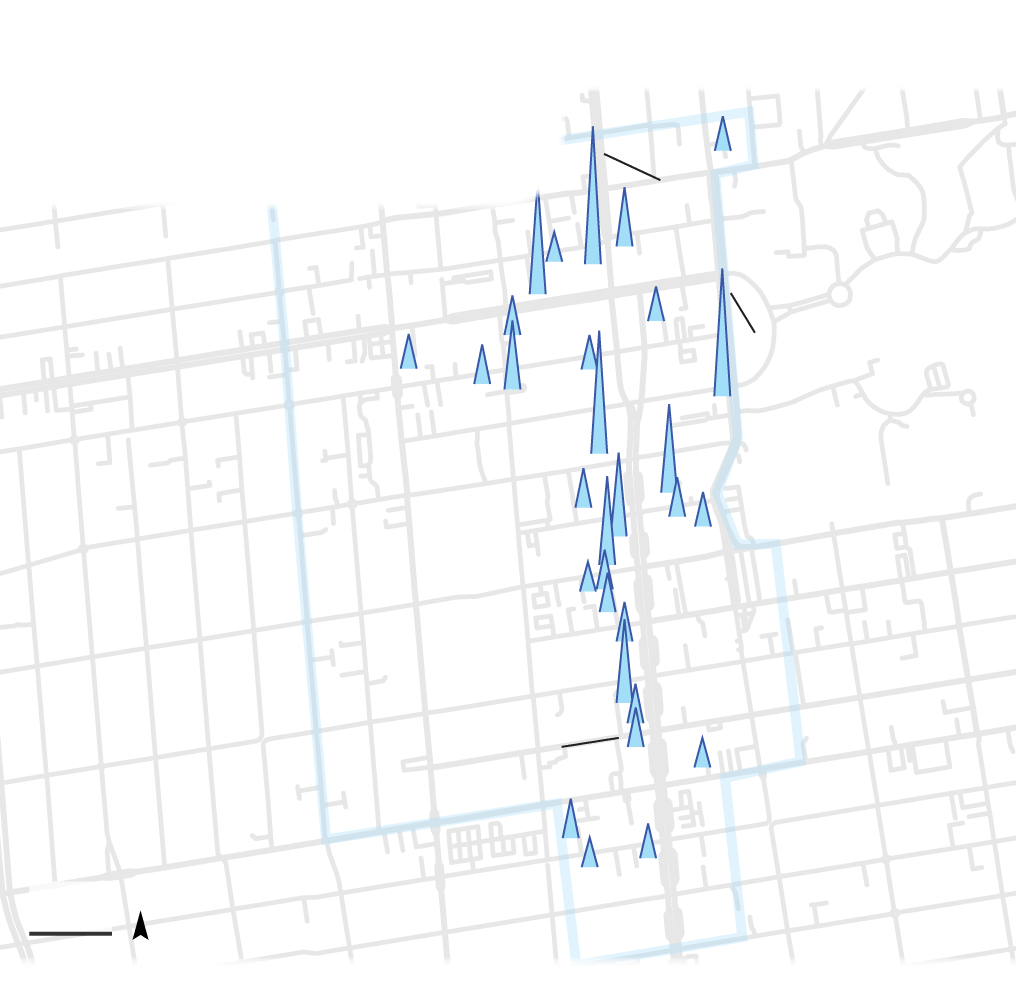
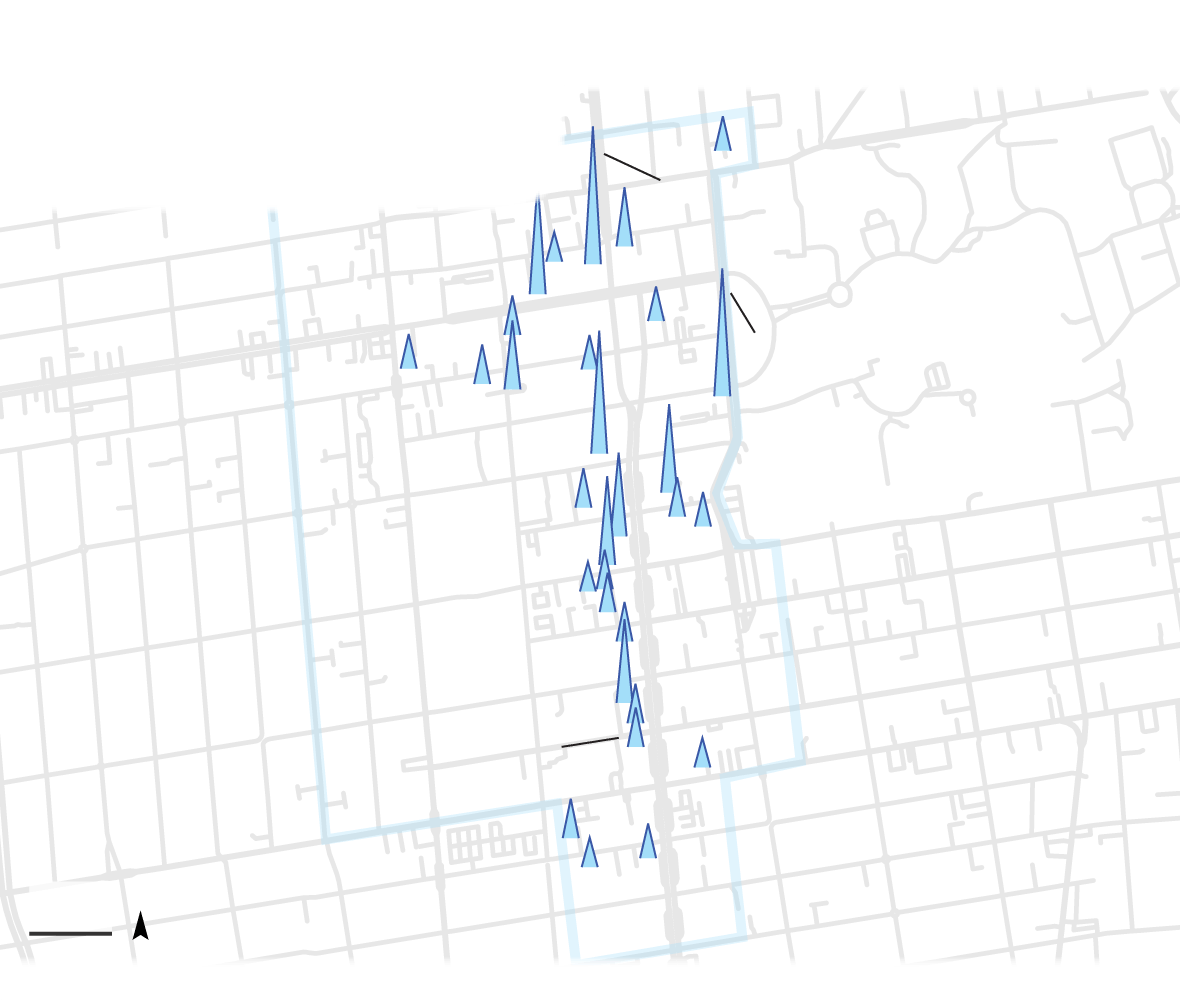
Updating ai2html map graphic

diff --git a/docs/index.html b/docs/index.html
@@ -139,9 +139,8 @@
  
 
 
-
-<!-- Generated by ai2html v0.123.1 -->
-
+<!-- Generated by ai2html v0.123.1 - 2025-08-05 15:04 -->
+<!-- ai file: berkeley-housing.ai -->
 <style media="screen,print">
 #g-berkeley-housing-box {
 	container-type:inline-size;
@@ -177,7 +176,7 @@
 #g-berkeley-housing-Artboard_1 {
 	display:none;
 }
-@container g-berkeley-housing-box (width >= 508px) {
+@container g-berkeley-housing-box (width >= 590px) {
 #g-berkeley-housing-Artboard_1 {
 	display:block;
 }
@@ -185,10 +184,10 @@
 #g-berkeley-housing-Artboard_1 p {
 	font-family: "Poppins",sans-serif;
 	font-weight:regular;
-	line-height:14px;
+	line-height:17px;
 	opacity:1;
 	letter-spacing:0em;
-	font-size:12px;
+	font-size:14px;
 	text-align:left;
 	color:rgb(0,0,0);
 	text-transform:none;
@@ -201,14 +200,14 @@
 }
 #g-berkeley-housing-Artboard_1 .g-pstyle0 {
 	font-weight:700;
-	line-height:24px;
-	height:24px;
-	font-size:20px;
+	line-height:29px;
+	height:29px;
+	font-size:24px;
 }
 #g-berkeley-housing-Artboard_1 .g-pstyle1 {
 	font-weight:500;
-	line-height:16px;
-	font-size:13px;
+	line-height:18px;
+	font-size:15px;
 }
 #g-berkeley-housing-Artboard_1 .g-pstyle2 {
 	font-weight:500;
@@ -223,7 +222,9 @@
 }
 #g-berkeley-housing-Artboard_1 .g-pstyle4 {
 	font-weight:500;
+	line-height:14px;
 	height:14px;
+	font-size:12px;
 }
 #g-berkeley-housing-Artboard_1 .g-pstyle5 {
 	font-weight:500;
@@ -250,7 +251,7 @@
 	position:relative;
 	overflow:hidden;
 }
-@container g-berkeley-housing-box (width >= 508px) {
+@container g-berkeley-housing-box (width >= 590px) {
 #g-berkeley-housing-Artboard_5 {
 	display:none;
 }
@@ -258,10 +259,10 @@
 #g-berkeley-housing-Artboard_5 p {
 	font-family: "Poppins",sans-serif;
 	font-weight:regular;
-	line-height:14px;
+	line-height:17px;
 	opacity:1;
 	letter-spacing:0em;
-	font-size:12px;
+	font-size:14px;
 	text-align:left;
 	color:rgb(0,0,0);
 	text-transform:none;
@@ -274,14 +275,14 @@
 }
 #g-berkeley-housing-Artboard_5 .g-pstyle0 {
 	font-weight:700;
-	line-height:24px;
-	height:24px;
-	font-size:20px;
+	line-height:29px;
+	height:29px;
+	font-size:24px;
 }
 #g-berkeley-housing-Artboard_5 .g-pstyle1 {
 	font-weight:500;
-	line-height:16px;
-	font-size:13px;
+	line-height:18px;
+	font-size:15px;
 }
 #g-berkeley-housing-Artboard_5 .g-pstyle2 {
 	font-weight:500;
@@ -302,6 +303,19 @@
 	color:rgb(192,194,196);
 }
 #g-berkeley-housing-Artboard_5 .g-pstyle5 {
+	font-weight:500;
+	line-height:14px;
+	height:14px;
+	font-size:12px;
+}
+#g-berkeley-housing-Artboard_5 .g-pstyle6 {
+	font-weight:500;
+	line-height:12px;
+	height:12px;
+	font-size:10px;
+	color:rgb(51,51,51);
+}
+#g-berkeley-housing-Artboard_5 .g-pstyle7 {
 	font-family: "Poppins",sans-serif;
 	line-height:13px;
 	height:13px;
@@ -313,138 +327,144 @@
 
 <div id="g-berkeley-housing-box" class="ai2html">
 	<!-- Artboard: Artboard_1 -->
-	<div id="g-berkeley-housing-Artboard_1" class="g-artboard" style="width:508px; height:500.426606178285px;" data-aspect-ratio="1.015" data-min-width="508">
+	<div id="g-berkeley-housing-Artboard_1" class="g-artboard" style="width:590px; height:500.426606178285px;" data-aspect-ratio="1.179" data-min-width="590">
 		<div style=""></div>
 		<img id="g-berkeley-housing-Artboard_1-img" class="g-berkeley-housing-Artboard_1-img g-aiImg" alt="" loading="lazy" src="berkeley-housing-Artboard_1.png"/>
-		<div id="g-ai0-1" class="g-exportSvg g-aiAbs g-aiPointText" style="top:5.9119%;margin-top:-16.6px;left:2.8922%;width:451px;">
+		<div id="g-ai0-1" class="g-exportSvg g-aiAbs g-aiPointText" style="top:5.7954%;margin-top:-20px;left:2.4902%;width:537px;">
 			<p class="g-pstyle0">Towers are coming to Downtown Berkeley</p>
 		</div>
-		<div id="g-ai0-2" class="g-exportSvg g-aiAbs" style="top:9.7916%;left:3.3803%;width:53.1496%;">
+		<div id="g-ai0-2" class="g-exportSvg g-aiAbs" style="top:9.7916%;left:2.9105%;width:43.3898%;">
 			<p class="g-pstyle1">Of the 31 multi-family housing projects proposed since 2019, 10 come in at 12 stories or taller</p>
 		</div>
-		<div id="g-ai0-3" class="g-Annotations g-aiAbs" style="top:17.585%;left:65.5895%;width:29.1339%;">
+		<div id="g-ai0-3" class="g-Annotations g-aiAbs" style="top:17.585%;left:56.4737%;width:40%;">
 			<p class="g-pstyle2">At 28 stories, the 1974 Shattuck project will be the tallest</p>
 		</div>
-		<div id="g-ai0-4" class="g-exportSvg g-aiAbs g-aiPointText" style="transform: matrix(0.986,-0.167,0.167,0.986,0,0);transform-origin: 50% 58.7238030328846%;-webkit-transform: matrix(0.986,-0.167,0.167,0.986,0,0);-webkit-transform-origin: 50% 58.7238030328846%;-ms-transform: matrix(0.986,-0.167,0.167,0.986,0,0);-ms-transform-origin: 50% 58.7238030328846%;top:25.1249%;margin-top:-5.7px;left:23.6023%;margin-left:-44px;width:88px;">
+		<div id="g-ai0-4" class="g-exportSvg g-aiAbs g-aiPointText" style="transform: matrix(0.986,-0.167,0.167,0.986,0,0);transform-origin: 50% 58.7238030328846%;-webkit-transform: matrix(0.986,-0.167,0.167,0.986,0,0);-webkit-transform-origin: 50% 58.7238030328846%;-ms-transform: matrix(0.986,-0.167,0.167,0.986,0,0);-ms-transform-origin: 50% 58.7238030328846%;top:25.1249%;margin-top:-5.7px;left:20.322%;margin-left:-44px;width:88px;">
 			<p class="g-pstyle3">HEARST AVENUE</p>
 		</div>
-		<div id="g-ai0-5" class="g-Annotations g-aiAbs" style="top:32.9719%;left:74.2923%;width:22.0472%;">
+		<div id="g-ai0-5" class="g-Annotations g-aiAbs" style="top:32.9719%;left:63.9669%;width:32.7119%;">
 			<p class="g-pstyle2">At 26 stories, the 2128 Oxford tower will be the second tallest</p>
 		</div>
-		<div id="g-ai0-6" class="g-exportSvg g-aiAbs g-aiPointText" style="transform: matrix(0.0884,0.9961,-0.9961,0.0884,0,0);transform-origin: 50% 58.7238030328846%;-webkit-transform: matrix(0.0884,0.9961,-0.9961,0.0884,0,0);-webkit-transform-origin: 50% 58.7238030328846%;-ms-transform: matrix(0.0884,0.9961,-0.9961,0.0884,0,0);-ms-transform-origin: 50% 58.7238030328846%;top:46.3068%;margin-top:-5.7px;left:49.87%;margin-left:-40.5px;width:81px;">
+		<div id="g-ai0-6" class="g-exportSvg g-aiAbs g-aiPointText" style="transform: matrix(0.0884,0.9961,-0.9961,0.0884,0,0);transform-origin: 50% 58.7238030328846%;-webkit-transform: matrix(0.0884,0.9961,-0.9961,0.0884,0,0);-webkit-transform-origin: 50% 58.7238030328846%;-ms-transform: matrix(0.0884,0.9961,-0.9961,0.0884,0,0);-ms-transform-origin: 50% 58.7238030328846%;top:46.3068%;margin-top:-5.7px;left:42.9389%;margin-left:-40.5px;width:81px;">
 			<p class="g-pstyle3">MILVIA STREET</p>
 		</div>
-		<div id="g-ai0-7" class="g-exportSvg g-aiAbs g-aiPointText" style="transform: matrix(0.0855,0.9963,-0.9963,0.0855,0,0);transform-origin: 50% 58.7238030328846%;-webkit-transform: matrix(0.0855,0.9963,-0.9963,0.0855,0,0);-webkit-transform-origin: 50% 58.7238030328846%;-ms-transform: matrix(0.0855,0.9963,-0.9963,0.0855,0,0);-ms-transform-origin: 50% 58.7238030328846%;top:56.8977%;margin-top:-5.7px;left:40.0806%;margin-left:-80px;width:160px;">
+		<div id="g-ai0-7" class="g-exportSvg g-aiAbs g-aiPointText" style="transform: matrix(0.0855,0.9963,-0.9963,0.0855,0,0);transform-origin: 50% 58.7238030328846%;-webkit-transform: matrix(0.0855,0.9963,-0.9963,0.0855,0,0);-webkit-transform-origin: 50% 58.7238030328846%;-ms-transform: matrix(0.0855,0.9963,-0.9963,0.0855,0,0);-ms-transform-origin: 50% 58.7238030328846%;top:56.8977%;margin-top:-5.7px;left:34.5101%;margin-left:-80px;width:160px;">
 			<p class="g-pstyle3">MARTIN LUTHER KING JUNIOR WAY</p>
 		</div>
-		<div id="g-ai0-8" class="g-exportSvg g-aiAbs g-aiPointText" style="transform: matrix(0.0837,0.9965,-0.9965,0.0837,0,0);transform-origin: 50% 58.7238030328846%;-webkit-transform: matrix(0.0837,0.9965,-0.9965,0.0837,0,0);-webkit-transform-origin: 50% 58.7238030328846%;-ms-transform: matrix(0.0837,0.9965,-0.9965,0.0837,0,0);-ms-transform-origin: 50% 58.7238030328846%;top:55.8986%;margin-top:-5.7px;left:23.8671%;margin-left:-45px;width:90px;">
+		<div id="g-ai0-8" class="g-exportSvg g-aiAbs g-aiPointText" style="transform: matrix(0.0837,0.9965,-0.9965,0.0837,0,0);transform-origin: 50% 58.7238030328846%;-webkit-transform: matrix(0.0837,0.9965,-0.9965,0.0837,0,0);-webkit-transform-origin: 50% 58.7238030328846%;-ms-transform: matrix(0.0837,0.9965,-0.9965,0.0837,0,0);-ms-transform-origin: 50% 58.7238030328846%;top:55.8986%;margin-top:-5.7px;left:20.55%;margin-left:-45px;width:90px;">
 			<p class="g-pstyle3">ROOSEVELT AVE.</p>
 		</div>
-		<div id="g-ai0-9" class="g-exportSvg g-aiAbs g-aiPointText" style="transform: matrix(0.9876,-0.1568,0.1568,0.9876,0,0);transform-origin: 50% 58.7238030328846%;-webkit-transform: matrix(0.9876,-0.1568,0.1568,0.9876,0,0);-webkit-transform-origin: 50% 58.7238030328846%;-ms-transform: matrix(0.9876,-0.1568,0.1568,0.9876,0,0);-ms-transform-origin: 50% 58.7238030328846%;top:54.6996%;margin-top:-5.7px;left:79.5631%;margin-left:-42.5px;width:85px;">
+		<div id="g-ai0-9" class="g-exportSvg g-aiAbs g-aiPointText" style="transform: matrix(0.9876,-0.1568,0.1568,0.9876,0,0);transform-origin: 50% 58.7238030328846%;-webkit-transform: matrix(0.9876,-0.1568,0.1568,0.9876,0,0);-webkit-transform-origin: 50% 58.7238030328846%;-ms-transform: matrix(0.9876,-0.1568,0.1568,0.9876,0,0);-ms-transform-origin: 50% 58.7238030328846%;top:54.6996%;margin-top:-5.7px;left:68.5052%;margin-left:-42.5px;width:85px;">
 			<p class="g-pstyle3">BANCROFT WAY</p>
 		</div>
-		<div id="g-ai0-10" class="g-exportSvg g-aiAbs g-aiPointText" style="transform: matrix(0.9876,-0.157,0.157,0.9876,0,0);transform-origin: 50% 58.7238030328846%;-webkit-transform: matrix(0.9876,-0.157,0.157,0.9876,0,0);-webkit-transform-origin: 50% 58.7238030328846%;-ms-transform: matrix(0.9876,-0.157,0.157,0.9876,0,0);-ms-transform-origin: 50% 58.7238030328846%;top:55.4989%;margin-top:-5.7px;left:106.1923%;margin-left:-44.5px;width:89px;">
+		<div id="g-ai0-10" class="g-exportSvg g-aiAbs g-aiPointText" style="transform: matrix(0.9876,-0.157,0.157,0.9876,0,0);transform-origin: 50% 58.7238030328846%;-webkit-transform: matrix(0.9876,-0.157,0.157,0.9876,0,0);-webkit-transform-origin: 50% 58.7238030328846%;-ms-transform: matrix(0.9876,-0.157,0.157,0.9876,0,0);-ms-transform-origin: 50% 58.7238030328846%;top:55.4989%;margin-top:-5.7px;left:91.4334%;margin-left:-44.5px;width:89px;">
 			<p class="g-pstyle3">DURANT AVENUE</p>
 		</div>
-		<div id="g-ai0-11" class="g-exportSvg g-aiAbs g-aiPointText" style="transform: matrix(0.1699,0.9855,-0.9855,0.1699,0,0);transform-origin: 50% 58.7238030328846%;-webkit-transform: matrix(0.1699,0.9855,-0.9855,0.1699,0,0);-webkit-transform-origin: 50% 58.7238030328846%;-ms-transform: matrix(0.1699,0.9855,-0.9855,0.1699,0,0);-ms-transform-origin: 50% 58.7238030328846%;top:63.8918%;margin-top:-5.7px;left:94.0043%;margin-left:-38.5px;width:77px;">
+		<div id="g-ai0-11" class="g-exportSvg g-aiAbs g-aiPointText" style="transform: matrix(0.1699,0.9855,-0.9855,0.1699,0,0);transform-origin: 50% 58.7238030328846%;-webkit-transform: matrix(0.1699,0.9855,-0.9855,0.1699,0,0);-webkit-transform-origin: 50% 58.7238030328846%;-ms-transform: matrix(0.1699,0.9855,-0.9855,0.1699,0,0);-ms-transform-origin: 50% 58.7238030328846%;top:63.8918%;margin-top:-5.7px;left:80.9393%;margin-left:-38.5px;width:77px;">
 			<p class="g-pstyle3">DANA STREET</p>
 		</div>
-		<div id="g-ai0-12" class="g-exportSvg g-aiAbs g-aiPointText" style="transform: matrix(0.9876,-0.1572,0.1572,0.9876,0,0);transform-origin: 50% 58.7238030328846%;-webkit-transform: matrix(0.9876,-0.1572,0.1572,0.9876,0,0);-webkit-transform-origin: 50% 58.7238030328846%;-ms-transform: matrix(0.9876,-0.1572,0.1572,0.9876,0,0);-ms-transform-origin: 50% 58.7238030328846%;top:60.4947%;margin-top:-5.7px;left:76.7428%;margin-left:-44.5px;width:89px;">
+		<div id="g-ai0-12" class="g-exportSvg g-aiAbs g-aiPointText" style="transform: matrix(0.9876,-0.1572,0.1572,0.9876,0,0);transform-origin: 50% 58.7238030328846%;-webkit-transform: matrix(0.9876,-0.1572,0.1572,0.9876,0,0);-webkit-transform-origin: 50% 58.7238030328846%;-ms-transform: matrix(0.9876,-0.1572,0.1572,0.9876,0,0);-ms-transform-origin: 50% 58.7238030328846%;top:60.4947%;margin-top:-5.7px;left:66.0769%;margin-left:-44.5px;width:89px;">
 			<p class="g-pstyle3">DURANT AVENUE</p>
 		</div>
-		<div id="g-ai0-13" class="g-exportSvg g-aiAbs g-aiPointText" style="transform: matrix(0.1581,0.9874,-0.9874,0.1581,0,0);transform-origin: 50% 58.7238030328846%;-webkit-transform: matrix(0.1581,0.9874,-0.9874,0.1581,0,0);-webkit-transform-origin: 50% 58.7238030328846%;-ms-transform: matrix(0.1581,0.9874,-0.9874,0.1581,0,0);-ms-transform-origin: 50% 58.7238030328846%;top:67.8884%;margin-top:-5.7px;left:83.7677%;margin-left:-42.5px;width:85px;">
+		<div id="g-ai0-13" class="g-exportSvg g-aiAbs g-aiPointText" style="transform: matrix(0.1581,0.9874,-0.9874,0.1581,0,0);transform-origin: 50% 58.7238030328846%;-webkit-transform: matrix(0.1581,0.9874,-0.9874,0.1581,0,0);-webkit-transform-origin: 50% 58.7238030328846%;-ms-transform: matrix(0.1581,0.9874,-0.9874,0.1581,0,0);-ms-transform-origin: 50% 58.7238030328846%;top:67.8884%;margin-top:-5.7px;left:72.1254%;margin-left:-42.5px;width:85px;">
 			<p class="g-pstyle3">ELLSWORTH ST.</p>
 		</div>
-		<div id="g-ai0-14" class="g-Annotations g-aiAbs" style="top:69.7405%;left:25.3365%;width:29.9213%;">
+		<div id="g-ai0-14" class="g-Annotations g-aiAbs" style="top:69.5407%;left:16.0629%;width:31.5254%;">
 			<p class="g-pstyle2">10 buildings are planned to be 8 stories tall, like this one at 2450 Shattuck</p>
 		</div>
-		<div id="g-ai0-15" class="g-exportSvg g-aiAbs g-aiPointText" style="transform: matrix(0.3205,0.9473,-0.9473,0.3205,0,0);transform-origin: 50% 58.7238030328846%;-webkit-transform: matrix(0.3205,0.9473,-0.9473,0.3205,0,0);-webkit-transform-origin: 50% 58.7238030328846%;-ms-transform: matrix(0.3205,0.9473,-0.9473,0.3205,0,0);-ms-transform-origin: 50% 58.7238030328846%;top:84.8739%;margin-top:-5.7px;left:31.6922%;margin-left:-41.5px;width:83px;">
+		<div id="g-ai0-15" class="g-exportSvg g-aiAbs g-aiPointText" style="transform: matrix(0.3205,0.9473,-0.9473,0.3205,0,0);transform-origin: 50% 58.7238030328846%;-webkit-transform: matrix(0.3205,0.9473,-0.9473,0.3205,0,0);-webkit-transform-origin: 50% 58.7238030328846%;-ms-transform: matrix(0.3205,0.9473,-0.9473,0.3205,0,0);-ms-transform-origin: 50% 58.7238030328846%;top:84.8739%;margin-top:-5.7px;left:27.2876%;margin-left:-41.5px;width:83px;">
 			<p class="g-pstyle3">GRANT STREET</p>
 		</div>
-		<div id="g-ai0-16" class="g-exportSvg g-aiAbs g-aiPointText" style="transform: matrix(0.1623,0.9867,-0.9867,0.1623,0,0);transform-origin: 50% 58.7238030328846%;-webkit-transform: matrix(0.1623,0.9867,-0.9867,0.1623,0,0);-webkit-transform-origin: 50% 58.7238030328846%;-ms-transform: matrix(0.1623,0.9867,-0.9867,0.1623,0,0);-ms-transform-origin: 50% 58.7238030328846%;top:91.4682%;margin-top:-5.7px;left:76.693%;margin-left:-43.5px;width:87px;">
+		<div id="g-ai0-16" class="g-exportSvg g-aiAbs g-aiPointText" style="transform: matrix(0.1623,0.9867,-0.9867,0.1623,0,0);transform-origin: 50% 58.7238030328846%;-webkit-transform: matrix(0.1623,0.9867,-0.9867,0.1623,0,0);-webkit-transform-origin: 50% 58.7238030328846%;-ms-transform: matrix(0.1623,0.9867,-0.9867,0.1623,0,0);-ms-transform-origin: 50% 58.7238030328846%;top:86.6723%;margin-top:-5.7px;left:65.5255%;margin-left:-43.5px;width:87px;">
 			<p class="g-pstyle3">FULTON STREET</p>
 		</div>
-		<div id="g-ai0-17" class="g-exportSvg g-aiAbs g-aiPointText" style="transform: matrix(0.9875,-0.1579,0.1579,0.9875,0,0);transform-origin: 50% 58.7238030328846%;-webkit-transform: matrix(0.9875,-0.1579,0.1579,0.9875,0,0);-webkit-transform-origin: 50% 58.7238030328846%;-ms-transform: matrix(0.9875,-0.1579,0.1579,0.9875,0,0);-ms-transform-origin: 50% 58.7238030328846%;top:88.0711%;margin-top:-5.7px;left:42.7674%;margin-left:-40.5px;width:81px;">
+		<div id="g-ai0-17" class="g-exportSvg g-aiAbs g-aiPointText" style="transform: matrix(0.9875,-0.1579,0.1579,0.9875,0,0);transform-origin: 50% 58.7238030328846%;-webkit-transform: matrix(0.9875,-0.1579,0.1579,0.9875,0,0);-webkit-transform-origin: 50% 58.7238030328846%;-ms-transform: matrix(0.9875,-0.1579,0.1579,0.9875,0,0);-ms-transform-origin: 50% 58.7238030328846%;top:88.0711%;margin-top:-5.7px;left:36.8234%;margin-left:-40.5px;width:81px;">
 			<p class="g-pstyle3">BLAKE STREET</p>
 		</div>
-		<div id="g-ai0-18" class="g-exportSvg g-aiAbs g-aiPointText" style="top:89.6752%;margin-top:-7.8px;left:12.9798%;width:31px;">
+		<div id="g-ai0-18" class="g-exportSvg g-aiAbs g-aiPointText" style="top:89.6752%;margin-top:-7.8px;left:11.1758%;width:31px;">
 			<p class="g-pstyle4">N</p>
 		</div>
-		<div id="g-ai0-19" class="g-exportSvg g-aiAbs g-aiPointText" style="top:89.65%;margin-top:-6.6px;left:3.8765%;width:41px;">
+		<div id="g-ai0-19" class="g-exportSvg g-aiAbs g-aiPointText" style="top:89.65%;margin-top:-6.6px;left:3.3377%;width:41px;">
 			<p class="g-pstyle5">500 </p>
 		</div>
-		<div id="g-ai0-20" class="g-exportSvg g-aiAbs g-aiPointText" style="top:91.8481%;margin-top:-6.6px;left:3.8765%;width:39px;">
+		<div id="g-ai0-20" class="g-exportSvg g-aiAbs g-aiPointText" style="top:91.8481%;margin-top:-6.6px;left:3.3377%;width:39px;">
 			<p class="g-pstyle5">feet</p>
 		</div>
-		<div id="g-ai0-21" class="g-exportSvg g-aiAbs g-aiPointText" style="transform: matrix(0.9868,-0.1618,0.1618,0.9868,0,0);transform-origin: 50% 58.7238030328846%;-webkit-transform: matrix(0.9868,-0.1618,0.1618,0.9868,0,0);-webkit-transform-origin: 50% 58.7238030328846%;-ms-transform: matrix(0.9868,-0.1618,0.1618,0.9868,0,0);-ms-transform-origin: 50% 58.7238030328846%;top:92.8671%;margin-top:-5.7px;left:48.7521%;margin-left:-44px;width:88px;">
+		<div id="g-ai0-21" class="g-exportSvg g-aiAbs g-aiPointText" style="transform: matrix(0.9868,-0.1618,0.1618,0.9868,0,0);transform-origin: 50% 58.7238030328846%;-webkit-transform: matrix(0.9868,-0.1618,0.1618,0.9868,0,0);-webkit-transform-origin: 50% 58.7238030328846%;-ms-transform: matrix(0.9868,-0.1618,0.1618,0.9868,0,0);-ms-transform-origin: 50% 58.7238030328846%;top:92.8671%;margin-top:-5.7px;left:41.9764%;margin-left:-44px;width:88px;">
 			<p class="g-pstyle3">PARKER STREET</p>
 		</div>
-		<div id="g-ai0-22" class="g-exportSvg g-aiAbs g-aiPointText" style="top:98.2174%;margin-top:-7.5px;left:70.5545%;width:30px;">
+		<div id="g-ai0-22" class="g-exportSvg g-aiAbs g-aiPointText" style="top:98.2174%;margin-top:-7.5px;left:74.308%;width:30px;">
 			<p class="g-pstyle6">&copy;</p>
 		</div>
-		<div id="g-ai0-23" class="g-exportSvg g-aiAbs g-aiPointText" style="top:98.1301%;margin-top:-6.1px;left:72.8829%;width:138px;">
+		<div id="g-ai0-23" class="g-exportSvg g-aiAbs g-aiPointText" style="top:98.1301%;margin-top:-6.1px;left:76.3127%;width:138px;">
 			<p class="g-pstyle7">OpenStreetMap contributors </p>
 		</div>
-		<div id="g-ai0-24" class="g-exportSvg g-aiAbs g-aiPointText" style="top:98.1301%;margin-top:-6.1px;left:2.4317%;width:321px;">
+		<div id="g-ai0-24" class="g-exportSvg g-aiAbs g-aiPointText" style="top:98.1301%;margin-top:-6.1px;left:2.0937%;width:321px;">
 			<p class="g-pstyle7">Data from Berkeley zoning and building records. Created with Datawrapper.</p>
 		</div>
 	</div>
 	<!-- Artboard: Artboard_5 -->
-	<div id="g-berkeley-housing-Artboard_5" class="g-artboard" style="max-width: 295px;max-height: 500px" data-aspect-ratio="0.589" data-min-width="0" data-max-width="507">
-		<div style="padding: 0 0 169.6361% 0;"></div>
+	<div id="g-berkeley-housing-Artboard_5" class="g-artboard" style="max-width: 375px;max-height: 500px" data-aspect-ratio="0.749" data-min-width="0" data-max-width="589">
+		<div style="padding: 0 0 133.4471% 0;"></div>
 		<img id="g-berkeley-housing-Artboard_5-img" class="g-berkeley-housing-Artboard_5-img g-aiImg" alt="" loading="lazy" src="berkeley-housing-Artboard_5.png"/>
-		<div id="g-ai1-1" class="g-mobile-anno g-aiAbs g-aiPointText" style="top:7.1109%;margin-top:-28.6px;left:2.5634%;width:247px;">
+		<div id="g-ai1-1" class="g-mobile-anno g-aiAbs g-aiPointText" style="top:8.4731%;margin-top:-34.4px;left:5.4226%;width:292px;">
 			<p class="g-pstyle0">Towers are coming to </p>
 			<p class="g-pstyle0">Downtown Berkeley</p>
 		</div>
-		<div id="g-ai1-2" class="g-mobile-anno g-aiAbs" style="top:12.7891%;left:2.6276%;width:91.5254%;">
-			<p class="g-pstyle1">Of the 31 multi-family housing projects proposed since 2019, 10 come in at 12 stories or taller</p>
+		<div id="g-ai1-2" class="g-mobile-anno g-aiAbs" style="top:14.5876%;left:4.9254%;width:91.2%;">
+			<p class="g-pstyle1">Of 31 multi-family housing projects proposed since 2019, 10 come in at 12 stories or taller</p>
 		</div>
-		<div id="g-ai1-3" class="g-mobile g-aiAbs" style="top:29.9744%;left:49.5622%;width:46.7797%;">
+		<div id="g-ai1-3" class="g-mobile g-aiAbs" style="top:29.3749%;left:48.0932%;width:44%;">
 			<p class="g-pstyle2">At 28 stories, the 1974 Shattuck project will be the tallest</p>
 		</div>
-		<div id="g-ai1-4" class="g-mobile g-aiAbs" style="top:45.3613%;left:64.5486%;width:33.2203%;">
+		<div id="g-ai1-4" class="g-mobile g-aiAbs" style="top:45.1615%;left:59.8825%;width:35.4667%;">
 			<p class="g-pstyle2">At 26 stories, the 2128 Oxford tower will be the second tallest</p>
 		</div>
-		<div id="g-ai1-5" class="g-mobile g-aiAbs g-aiPointText" style="transform: matrix(0.0855,0.9963,-0.9963,0.0855,0,0);transform-origin: 50% 58.7238030328846%;-webkit-transform: matrix(0.0855,0.9963,-0.9963,0.0855,0,0);-webkit-transform-origin: 50% 58.7238030328846%;-ms-transform: matrix(0.0855,0.9963,-0.9963,0.0855,0,0);-ms-transform-origin: 50% 58.7238030328846%;top:60.095%;margin-top:-5.7px;left:4.057%;margin-left:-80px;width:160px;">
+		<div id="g-ai1-5" class="g-mobile g-aiAbs g-aiPointText" style="transform: matrix(0.0855,0.9963,-0.9963,0.0855,0,0);transform-origin: 50% 58.7238030328846%;-webkit-transform: matrix(0.0855,0.9963,-0.9963,0.0855,0,0);-webkit-transform-origin: 50% 58.7238030328846%;-ms-transform: matrix(0.0855,0.9963,-0.9963,0.0855,0,0);-ms-transform-origin: 50% 58.7238030328846%;top:60.095%;margin-top:-5.7px;left:12.2958%;margin-left:-80px;width:160px;">
 			<p class="g-pstyle3">MARTIN LUTHER KING JUNIOR WAY</p>
 		</div>
-		<div id="g-ai1-6" class="g-mobile g-aiAbs g-aiPointText" style="transform: matrix(0.0884,0.9961,-0.9961,0.0884,0,0);transform-origin: 50% 58.7238030328846%;-webkit-transform: matrix(0.0884,0.9961,-0.9961,0.0884,0,0);-webkit-transform-origin: 50% 58.7238030328846%;-ms-transform: matrix(0.0884,0.9961,-0.9961,0.0884,0,0);-ms-transform-origin: 50% 58.7238030328846%;top:58.6962%;margin-top:-5.7px;left:22.4932%;margin-left:-40.5px;width:81px;">
+		<div id="g-ai1-6" class="g-mobile g-aiAbs g-aiPointText" style="transform: matrix(0.0884,0.9961,-0.9961,0.0884,0,0);transform-origin: 50% 58.7238030328846%;-webkit-transform: matrix(0.0884,0.9961,-0.9961,0.0884,0,0);-webkit-transform-origin: 50% 58.7238030328846%;-ms-transform: matrix(0.0884,0.9961,-0.9961,0.0884,0,0);-ms-transform-origin: 50% 58.7238030328846%;top:58.6962%;margin-top:-5.7px;left:26.7989%;margin-left:-40.5px;width:81px;">
 			<p class="g-pstyle3">MILVIA STREET</p>
 		</div>
-		<div id="g-ai1-7" class="g-mobile g-aiAbs g-aiPointText" style="transform: matrix(0.9876,-0.1568,0.1568,0.9876,0,0);transform-origin: 50% 58.7238030328846%;-webkit-transform: matrix(0.9876,-0.1568,0.1568,0.9876,0,0);-webkit-transform-origin: 50% 58.7238030328846%;-ms-transform: matrix(0.9876,-0.1568,0.1568,0.9876,0,0);-ms-transform-origin: 50% 58.7238030328846%;top:66.8892%;margin-top:-5.7px;left:73.6253%;margin-left:-42.5px;width:85px;">
+		<div id="g-ai1-7" class="g-mobile g-aiAbs g-aiPointText" style="transform: matrix(0.9876,-0.1568,0.1568,0.9876,0,0);transform-origin: 50% 58.7238030328846%;-webkit-transform: matrix(0.9876,-0.1568,0.1568,0.9876,0,0);-webkit-transform-origin: 50% 58.7238030328846%;-ms-transform: matrix(0.9876,-0.1568,0.1568,0.9876,0,0);-ms-transform-origin: 50% 58.7238030328846%;top:66.8892%;margin-top:-5.7px;left:67.0229%;margin-left:-42.5px;width:85px;">
 			<p class="g-pstyle3">BANCROFT WAY</p>
 		</div>
-		<div id="g-ai1-8" class="g-mobile g-aiAbs g-aiPointText" style="transform: matrix(0.1699,0.9855,-0.9855,0.1699,0,0);transform-origin: 50% 58.7238030328846%;-webkit-transform: matrix(0.1699,0.9855,-0.9855,0.1699,0,0);-webkit-transform-origin: 50% 58.7238030328846%;-ms-transform: matrix(0.1699,0.9855,-0.9855,0.1699,0,0);-ms-transform-origin: 50% 58.7238030328846%;top:76.2812%;margin-top:-5.7px;left:98.4936%;margin-left:-38.5px;width:77px;">
+		<div id="g-ai1-8" class="g-mobile g-aiAbs g-aiPointText" style="transform: matrix(0.1699,0.9855,-0.9855,0.1699,0,0);transform-origin: 50% 58.7238030328846%;-webkit-transform: matrix(0.1699,0.9855,-0.9855,0.1699,0,0);-webkit-transform-origin: 50% 58.7238030328846%;-ms-transform: matrix(0.1699,0.9855,-0.9855,0.1699,0,0);-ms-transform-origin: 50% 58.7238030328846%;top:76.2812%;margin-top:-5.7px;left:86.5859%;margin-left:-38.5px;width:77px;">
 			<p class="g-pstyle3">DANA STREET</p>
 		</div>
-		<div id="g-ai1-9" class="g-mobile g-aiAbs g-aiPointText" style="transform: matrix(0.9876,-0.1572,0.1572,0.9876,0,0);transform-origin: 50% 58.7238030328846%;-webkit-transform: matrix(0.9876,-0.1572,0.1572,0.9876,0,0);-webkit-transform-origin: 50% 58.7238030328846%;-ms-transform: matrix(0.9876,-0.1572,0.1572,0.9876,0,0);-ms-transform-origin: 50% 58.7238030328846%;top:72.6843%;margin-top:-5.7px;left:68.7684%;margin-left:-44.5px;width:89px;">
+		<div id="g-ai1-9" class="g-mobile g-aiAbs g-aiPointText" style="transform: matrix(0.9876,-0.1572,0.1572,0.9876,0,0);transform-origin: 50% 58.7238030328846%;-webkit-transform: matrix(0.9876,-0.1572,0.1572,0.9876,0,0);-webkit-transform-origin: 50% 58.7238030328846%;-ms-transform: matrix(0.9876,-0.1572,0.1572,0.9876,0,0);-ms-transform-origin: 50% 58.7238030328846%;top:72.6843%;margin-top:-5.7px;left:63.202%;margin-left:-44.5px;width:89px;">
 			<p class="g-pstyle3">DURANT AVENUE</p>
 		</div>
-		<div id="g-ai1-10" class="g-mobile g-aiAbs g-aiPointText" style="transform: matrix(0.1581,0.9874,-0.9874,0.1581,0,0);transform-origin: 50% 58.7238030328846%;-webkit-transform: matrix(0.1581,0.9874,-0.9874,0.1581,0,0);-webkit-transform-origin: 50% 58.7238030328846%;-ms-transform: matrix(0.1581,0.9874,-0.9874,0.1581,0,0);-ms-transform-origin: 50% 58.7238030328846%;top:80.2778%;margin-top:-5.7px;left:80.8655%;margin-left:-42.5px;width:85px;">
-			<p class="g-pstyle3">ELLSWORTH ST.</p>
-		</div>
-		<div id="g-ai1-11" class="g-mobile g-aiAbs" style="top:74.5364%;left:2.0534%;width:29.8305%;">
+		<div id="g-ai1-10" class="g-mobile g-aiAbs" style="top:71.9386%;left:5.6203%;width:29.0667%;">
 			<p class="g-pstyle2">10 buildings are planned to be 8 stories tall, like this one at 2450 Shattuck</p>
 		</div>
-		<div id="g-ai1-12" class="g-mobile g-aiAbs g-aiPointText" style="top:93.6939%;margin-top:-16.9px;left:52.1224%;width:146px;">
+		<div id="g-ai1-11" class="g-mobile g-aiAbs g-aiPointText" style="transform: matrix(0.1581,0.9874,-0.9874,0.1581,0,0);transform-origin: 50% 58.7238030328846%;-webkit-transform: matrix(0.1581,0.9874,-0.9874,0.1581,0,0);-webkit-transform-origin: 50% 58.7238030328846%;-ms-transform: matrix(0.1581,0.9874,-0.9874,0.1581,0,0);-ms-transform-origin: 50% 58.7238030328846%;top:80.2778%;margin-top:-5.7px;left:72.7184%;margin-left:-42.5px;width:85px;">
+			<p class="g-pstyle3">ELLSWORTH ST.</p>
+		</div>
+		<div id="g-ai1-12" class="g-mobile g-aiAbs g-aiPointText" style="top:93.6939%;margin-top:-16.9px;left:61.5739%;width:146px;">
 			<p class="g-pstyle4">Data from Berkeley zoning and </p>
 			<p class="g-pstyle4">building records. Created with </p>
 			<p class="g-pstyle4">Datawrapper.</p>
 		</div>
-		<div id="g-ai1-13" class="g-mobile g-aiAbs g-aiPointText" style="top:98.4172%;margin-top:-7.5px;left:51.9407%;width:30px;">
-			<p class="g-pstyle5">&copy;</p>
+		<div id="g-ai1-13" class="g-mobile g-aiAbs g-aiPointText" style="top:93.8717%;margin-top:-7.8px;left:17.6247%;width:31px;">
+			<p class="g-pstyle5">N</p>
 		</div>
-		<div id="g-ai1-14" class="g-mobile g-aiAbs g-aiPointText" style="top:98.33%;margin-top:-6.1px;left:55.9502%;width:138px;">
+		<div id="g-ai1-14" class="g-mobile g-aiAbs g-aiPointText" style="top:94.0462%;margin-top:-6.6px;left:5.2927%;width:41px;">
+			<p class="g-pstyle6">500 </p>
+		</div>
+		<div id="g-ai1-15" class="g-mobile g-aiAbs g-aiPointText" style="top:96.2443%;margin-top:-6.6px;left:5.2927%;width:39px;">
+			<p class="g-pstyle6">feet</p>
+		</div>
+		<div id="g-ai1-16" class="g-mobile g-aiAbs g-aiPointText" style="top:98.4172%;margin-top:-7.5px;left:61.4309%;width:30px;">
+			<p class="g-pstyle7">&copy;</p>
+		</div>
+		<div id="g-ai1-17" class="g-mobile g-aiAbs g-aiPointText" style="top:98.33%;margin-top:-6.1px;left:64.5851%;width:138px;">
 			<p class="g-pstyle4">OpenStreetMap contributors </p>
-		</div>
-		<div id="g-ai1-15" class="g-mobile g-aiAbs g-aiPointText" style="transform: matrix(0.9875,-0.1579,0.1579,0.9875,0,0);transform-origin: 50% 58.7238030328846%;-webkit-transform: matrix(0.9875,-0.1579,0.1579,0.9875,0,0);-webkit-transform-origin: 50% 58.7238030328846%;-ms-transform: matrix(0.9875,-0.1579,0.1579,0.9875,0,0);-ms-transform-origin: 50% 58.7238030328846%;top:100.4606%;margin-top:-5.7px;left:10.2617%;margin-left:-40.5px;width:81px;">
-			<p class="g-pstyle3">BLAKE STREET</p>
 		</div>
 	</div>
 </div>
 
-<!-- End ai2html - -->
+<!-- End ai2html - 2025-08-05 15:04 -->
 
 
 
